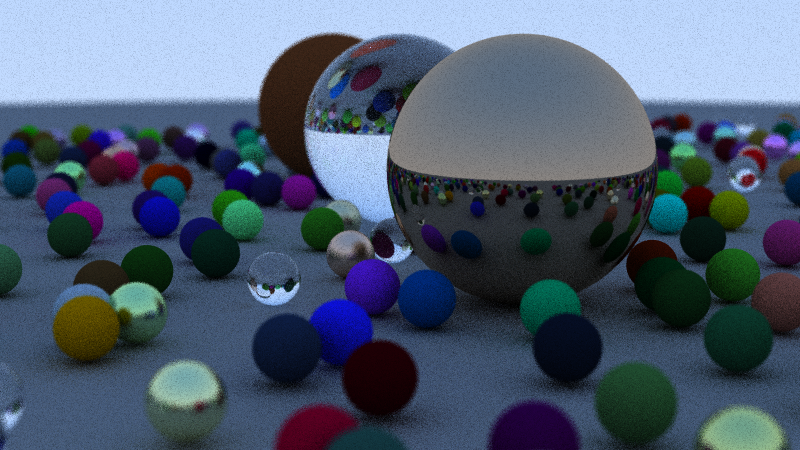
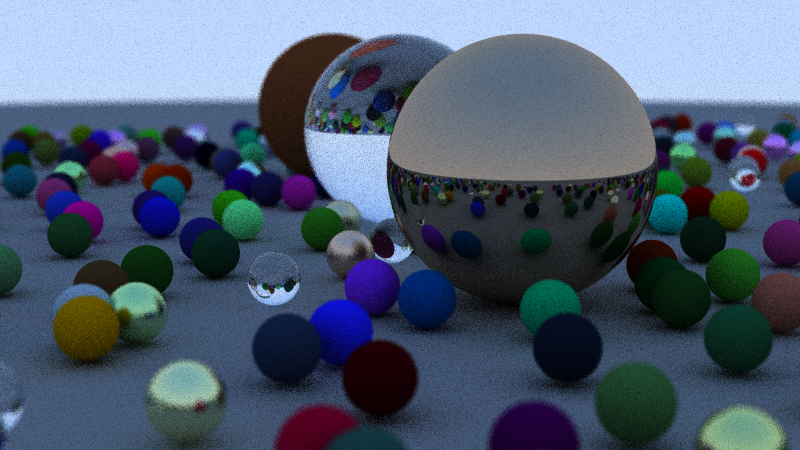
Add: bvh acceleration

diff --git a/include/bvh.hpp b/include/bvh.hpp
@@ -1,0 +1,104 @@
+#pragma once
+
+#include "vec3.hpp"
+#include "hittable.hpp"
+#include "AABB.hpp"
+
+struct bvh : public hittable
+{
+    bvh() = default;
+    bvh(const std::shared_ptr<hittable>& left, const std::shared_ptr<hittable>& right) :
+        left(left),
+        right(right),
+        aabb(AABB::combine(left->get_AABB(), right->get_AABB())) {};
+    bvh(const std::vector<std::shared_ptr<hittable>>& objects) {
+        if (objects.empty()) {
+            left = right = nullptr;
+            aabb = AABB();
+            return;
+        }
+        if (objects.size() == 1) {
+            left = objects[0];
+            right = nullptr;
+            aabb = left->get_AABB();
+            return;
+        }
+
+        AABB total_aabb = objects[0]->get_AABB();
+        for (size_t i = 1; i < objects.size(); ++i) {
+            total_aabb = AABB::combine(total_aabb, objects[i]->get_AABB());
+        }
+
+        vec3 extent = total_aabb.max - total_aabb.min;
+        int axis = 0;
+        if (extent.y() > extent.x()) axis = 1;
+        if (extent.z() > extent[axis]) axis = 2;
+
+        std::vector<std::shared_ptr<hittable>> sorted_objects = objects;
+        std::sort(sorted_objects.begin(), sorted_objects.end(),
+            [axis](const std::shared_ptr<hittable>& a, const std::shared_ptr<hittable>& b) {
+                AABB aabb_a = a->get_AABB();
+                AABB aabb_b = b->get_AABB();
+                double center_a = (aabb_a.min[axis] + aabb_a.max[axis]) / 2.0;
+                double center_b = (aabb_b.min[axis] + aabb_b.max[axis]) / 2.0;
+                return center_a < center_b;
+            });
+
+        size_t mid = sorted_objects.size() / 2;
+        std::vector<std::shared_ptr<hittable>> left_objects(sorted_objects.begin(), sorted_objects.begin() + mid);
+        std::vector<std::shared_ptr<hittable>> right_objects(sorted_objects.begin() + mid, sorted_objects.end());
+
+        left = std::make_shared<bvh>(left_objects);
+        right = std::make_shared<bvh>(right_objects);
+        aabb = AABB::combine(left->get_AABB(), right->get_AABB());
+    }
+    std::shared_ptr<hittable> left;
+    std::shared_ptr<hittable> right;
+    AABB aabb;
+
+    virtual bool hit(const ray& r, interval ray_t, hit_record& record) const override {
+        double tmin = ray_t.min;
+        double tmax = ray_t.max;
+        const auto& min = aabb.min;
+        const auto& max = aabb.max;
+
+        for (int i = 0; i < 3; i++) {
+            double invD = 1.0 / r.direction()[i];
+            double t0 = (min[i] - r.origin()[i]) * invD;
+            double t1 = (max[i] - r.origin()[i]) * invD;
+
+            if (invD < 0.0) {
+                std::swap(t0, t1);
+            }
+
+            tmin = t0 > tmin ? t0 : tmin;
+            tmax = t1 < tmax ? t1 : tmax;
+
+            if (tmax <= tmin) {
+                return false;
+            }
+        }
+
+        std::vector<hit_record> hits;
+        hit_record rec;
+        if (left && left->hit(r, ray_t, rec)) {
+            hits.emplace_back(std::move(rec));
+        }
+        if (right && right->hit(r, ray_t, rec)) {
+            hits.emplace_back(std::move(rec));
+        }
+
+        if (hits.empty()){
+            return false;
+        } else {
+            record = *std::min_element(hits.begin(), hits.end(), [](const hit_record& a, const hit_record& b) {
+                return a.t < b.t;
+            });
+            return true;
+        }
+    }
+
+    virtual AABB get_AABB() const override {
+        return this->aabb;
+    }
+};

diff --git a/main.cpp b/main.cpp
@@ -1,3 +1,4 @@
+#include "bvh.hpp"
 #include "camera.hpp"
 #include "hittable_list.hpp"
 #include "material.hpp"
@@ -57,6 +58,10 @@ int main()
     auto material3 = make_shared<metal>(color(0.7, 0.6, 0.5), 0.0);
     world.add(make_shared<sphere>(point3(4, 1, 0), 1.0, material3));
 
+    bb::log("Begin building bvh...");
+    auto world_bvh = bvh(world.objects);
+    bb::log("bvh has been built");
+
     camera cam;
 
     cam.aspect = 16.0 / 9.0;
@@ -72,6 +77,6 @@ int main()
     cam.defocus_angle = 0.6;
     cam.focus_dist = 10.0;
 
-    cam.render(world);
+    cam.render(world_bvh);
     return 0;
 }

diff --git a/include/AABB.hpp b/include/AABB.hpp
@@ -1,0 +1,18 @@
+#pragma once
+
+#include "vec3.hpp"
+
+struct AABB {
+    vec3 min;
+    vec3 max;
+    AABB() = default;
+    AABB(const vec3& min, const vec3& max) : min(min), max(max) {};
+
+    static AABB combine(const AABB& a, const AABB& b)
+    {
+        return AABB(
+            vec3(std::min(a.min.x(), b.min.x()), std::min(a.min.y(), b.min.y()), std::min(a.min.z(), b.min.z())),
+            vec3(std::max(a.max.x(), b.max.x()), std::max(a.max.y(), b.max.y()), std::max(a.max.z(), b.max.z()))
+        );
+    }
+};

diff --git a/include/sphere.hpp b/include/sphere.hpp
@@ -2,6 +2,7 @@
 
 #include "hittable.hpp"
 #include "material.hpp"
+#include "AABB.hpp"
 
 class sphere : public hittable
 {
@@ -36,6 +37,13 @@ public:
         record.mat = mat;
 
         return true;
+    }
+
+    virtual AABB get_AABB() const override {
+        return AABB(
+            center - vec3(radius, radius, radius),
+            center + vec3(radius, radius, radius)
+        );
     }
 
 private:

diff --git a/include/hittable.hpp b/include/hittable.hpp
@@ -5,6 +5,7 @@
 #include "rtweekend.hpp"
 
 class material;
+class AABB;
 
 struct hit_record
 {
@@ -27,4 +28,5 @@ class hittable
 public:
     virtual ~hittable() = default;
     virtual bool hit(const ray& r, interval ray_t, hit_record& record) const = 0;
+    virtual AABB get_AABB() const = 0;
 };

diff --git a/include/hittable_list.hpp b/include/hittable_list.hpp
@@ -3,6 +3,7 @@
 #include <vector>
 
 #include "hittable.hpp"
+#include "AABB.hpp"
 
 class hittable_list : public hittable
 {
@@ -34,4 +35,8 @@ public:
 
         return hit_anything;
     }
+
+   virtual AABB get_AABB() const override {
+        return AABB();
+   }
 };
